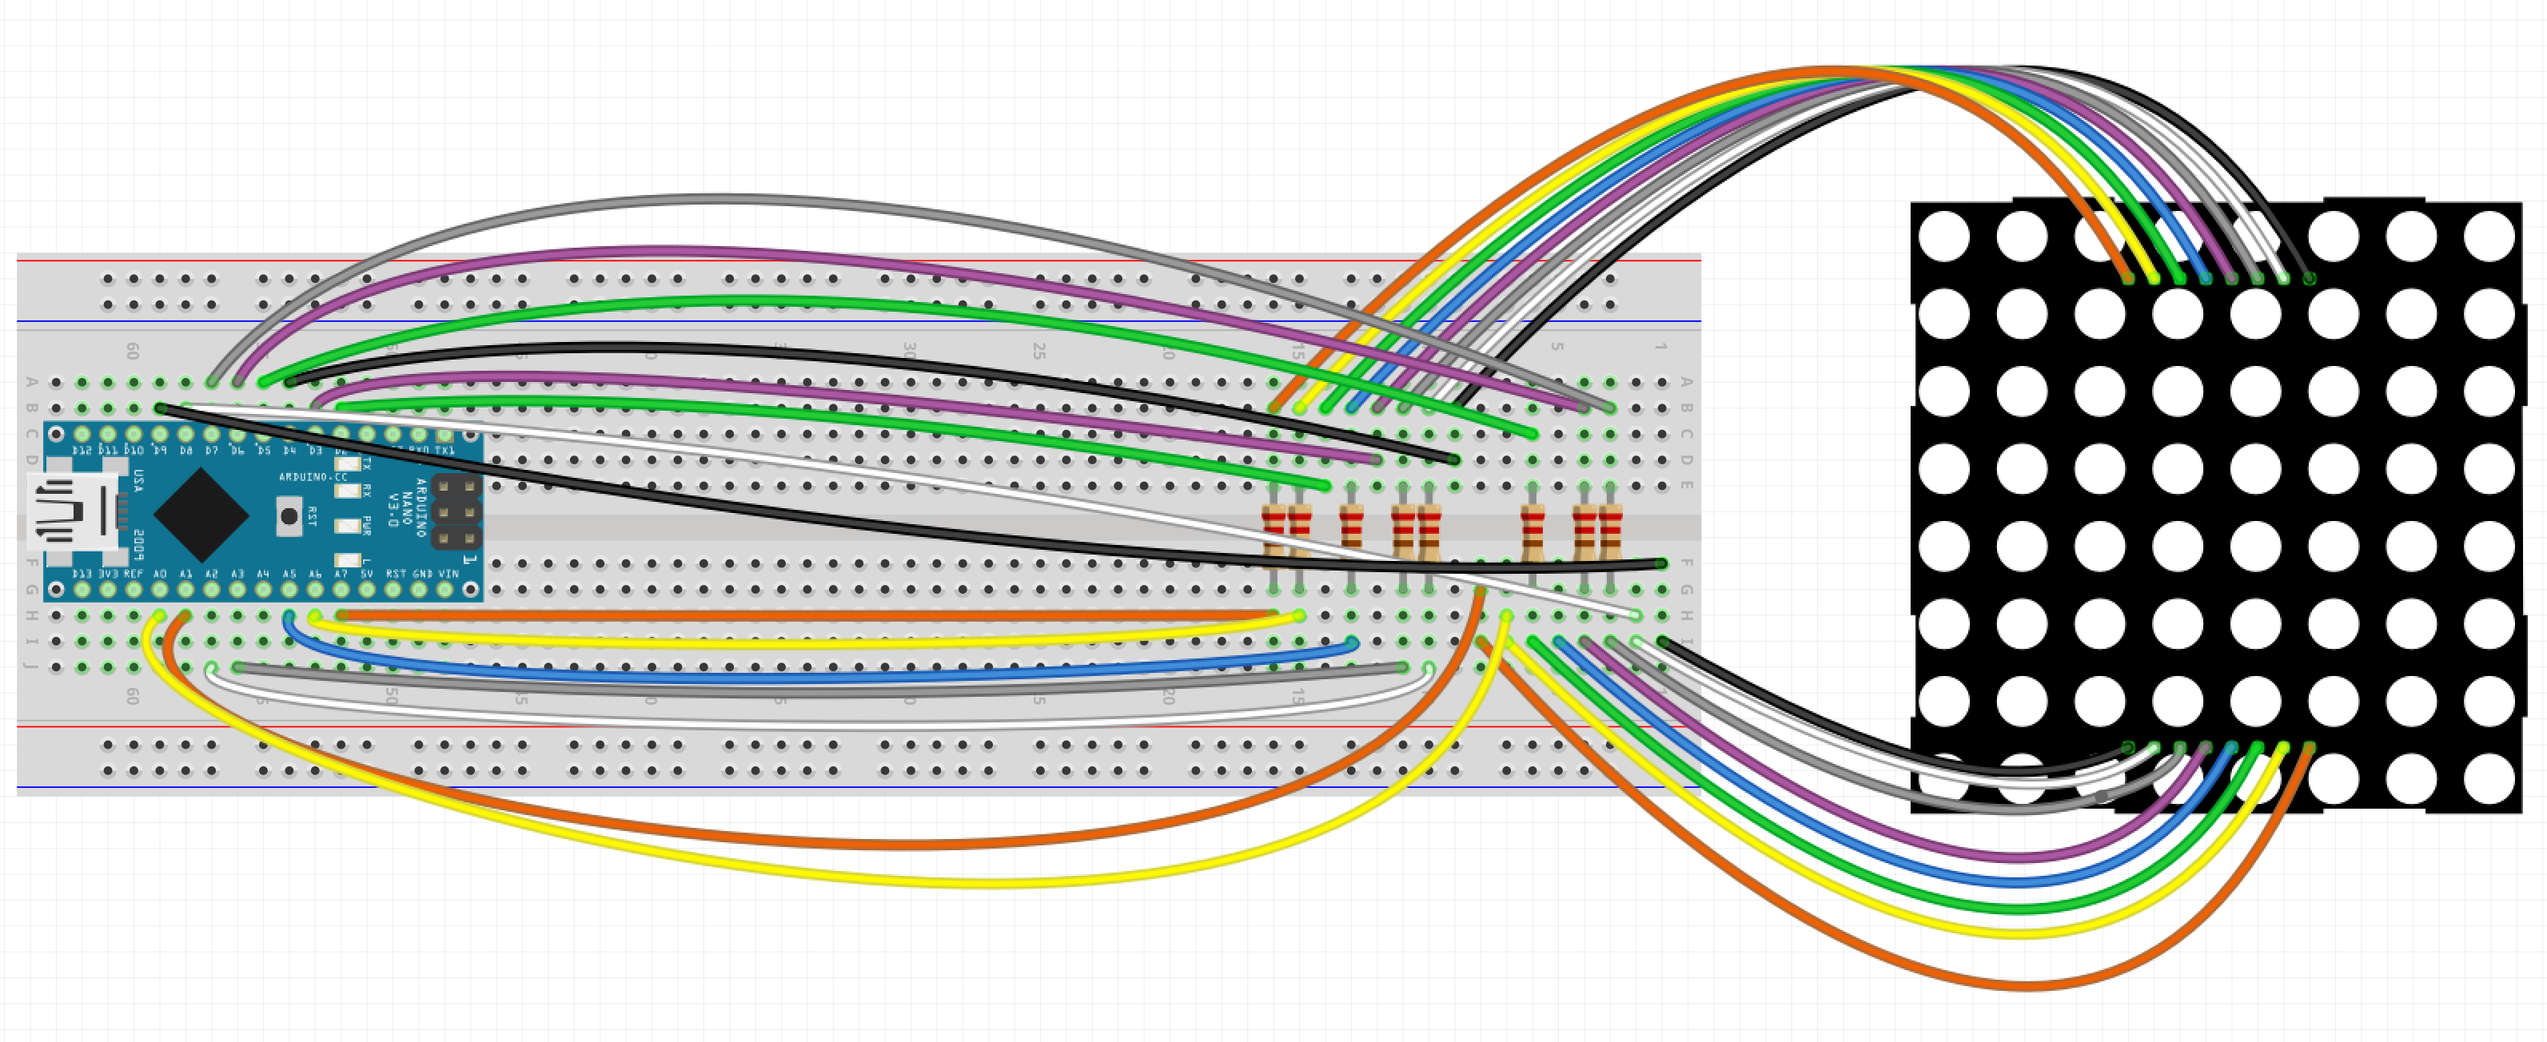
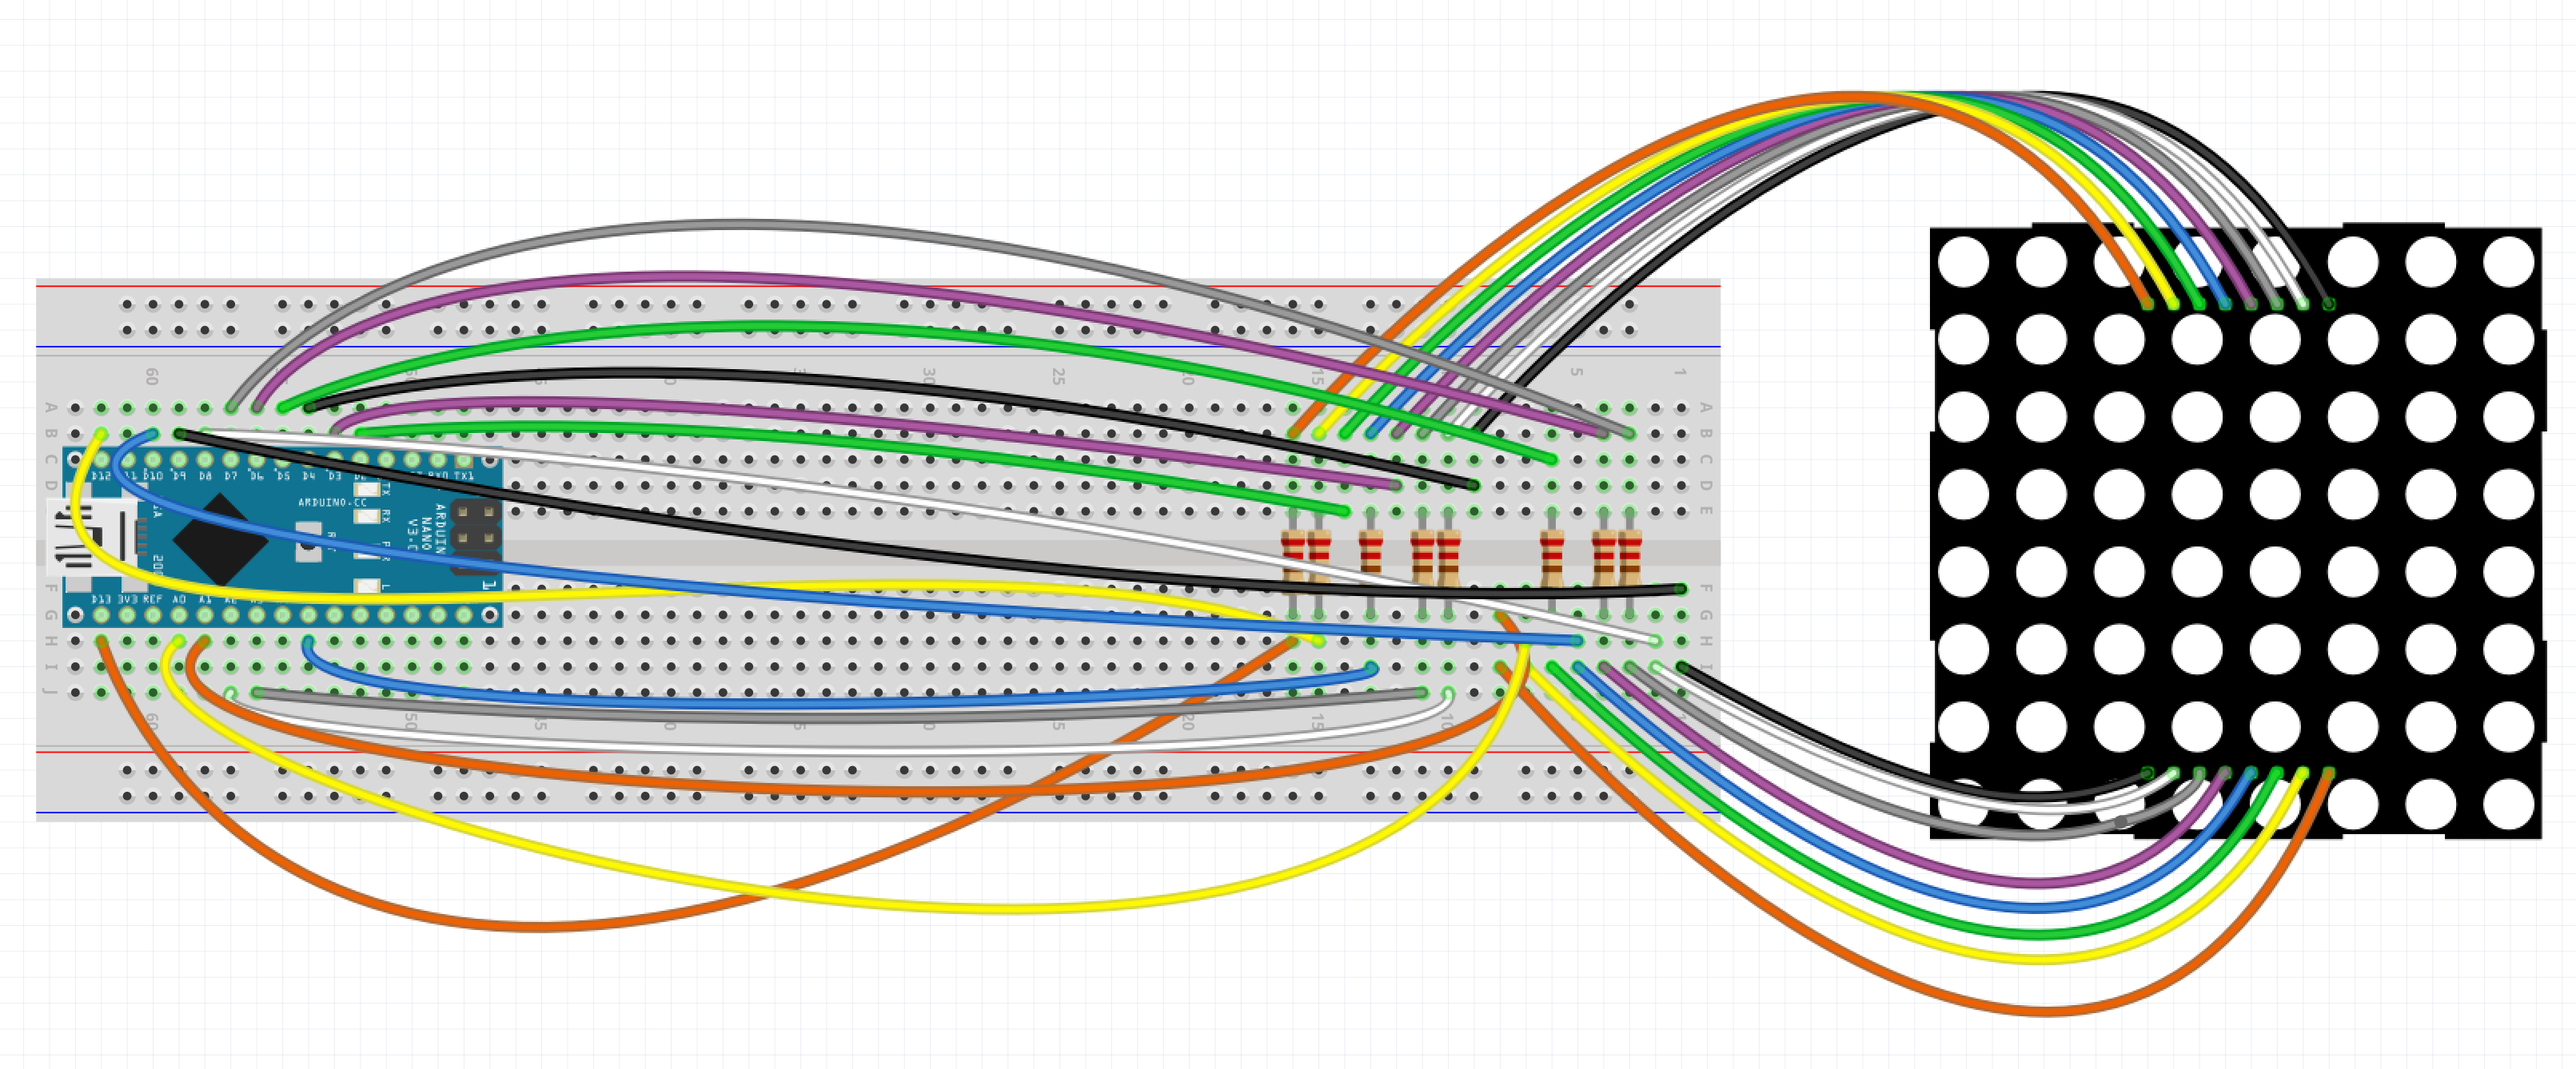
Updated once tested

diff --git a/projects/arduino/emily/README.MD b/projects/arduino/emily/README.MD
@@ -1,0 +1,9 @@
+Part # KWM-30881CVB
+
+KWM Column: 1   2   3   4   5   6   7   8
+KWM Pin:    13  3   4   10  6   11  15  16
+Nano Pin:   A5  D7  D6  A2  D5  A3  D12 D13
+
+KWM Row:    1   2   3   4   5   6   7   8
+KWM Pin:    9   14  8   12  1   7   2   5
+Nano Pin:   D4  D2  A1  D3  D9  A0  D8  D10
